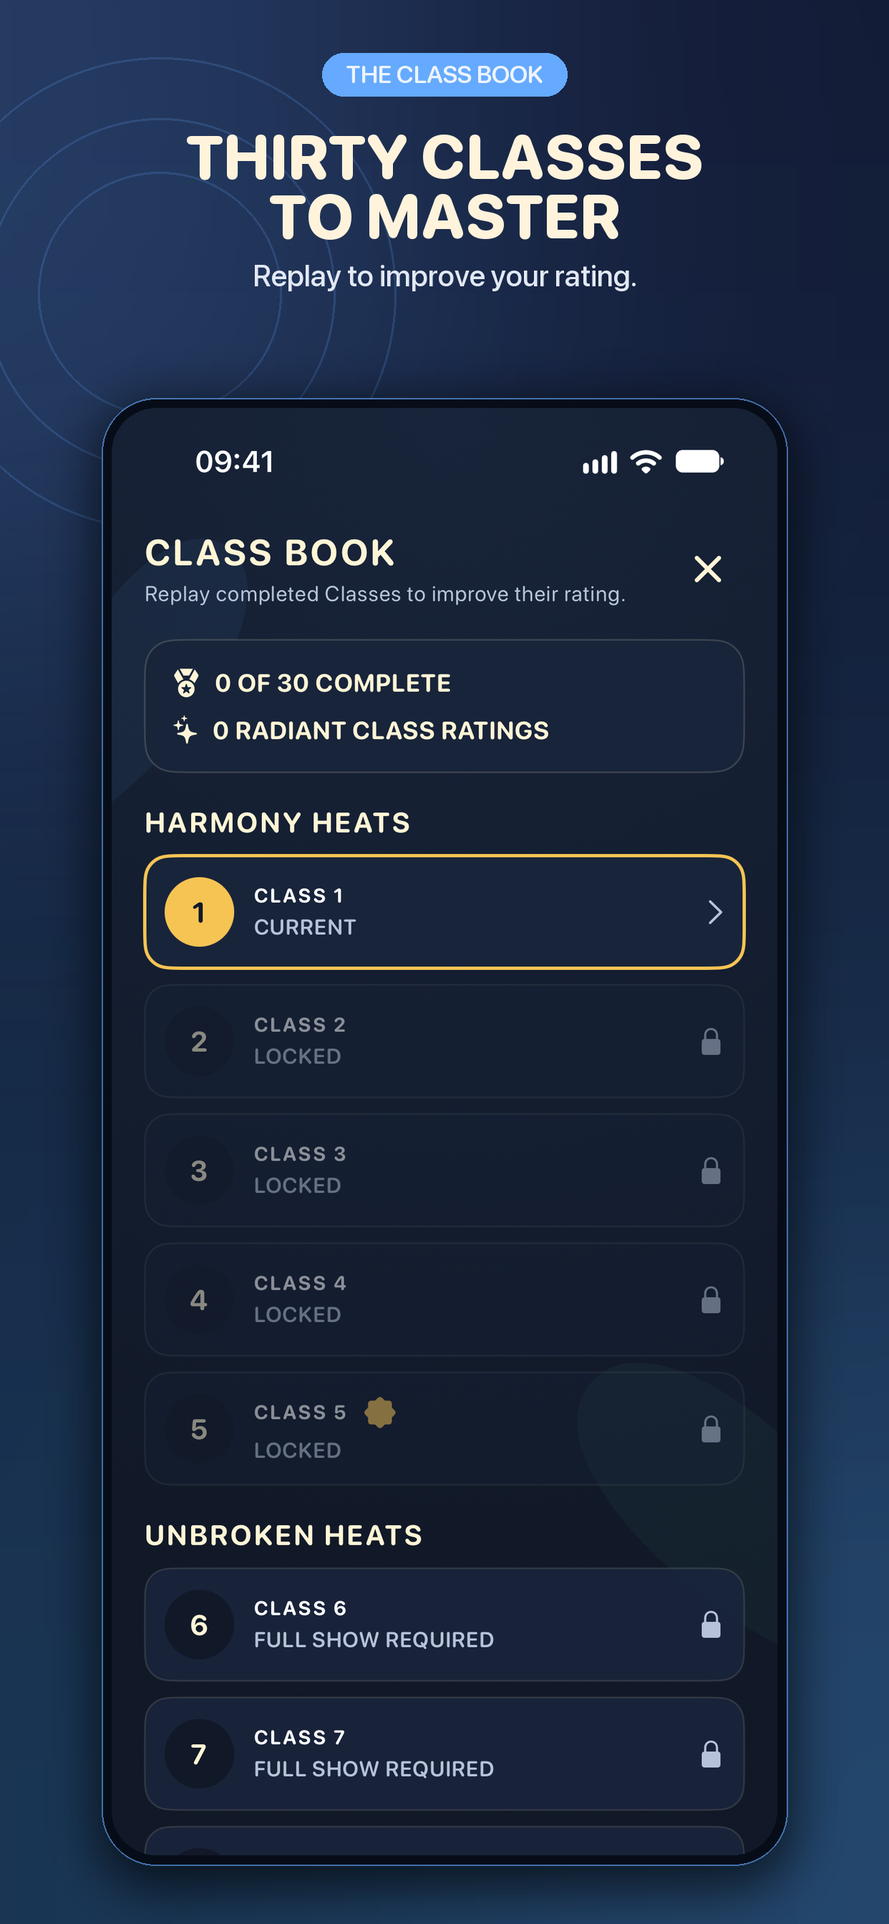
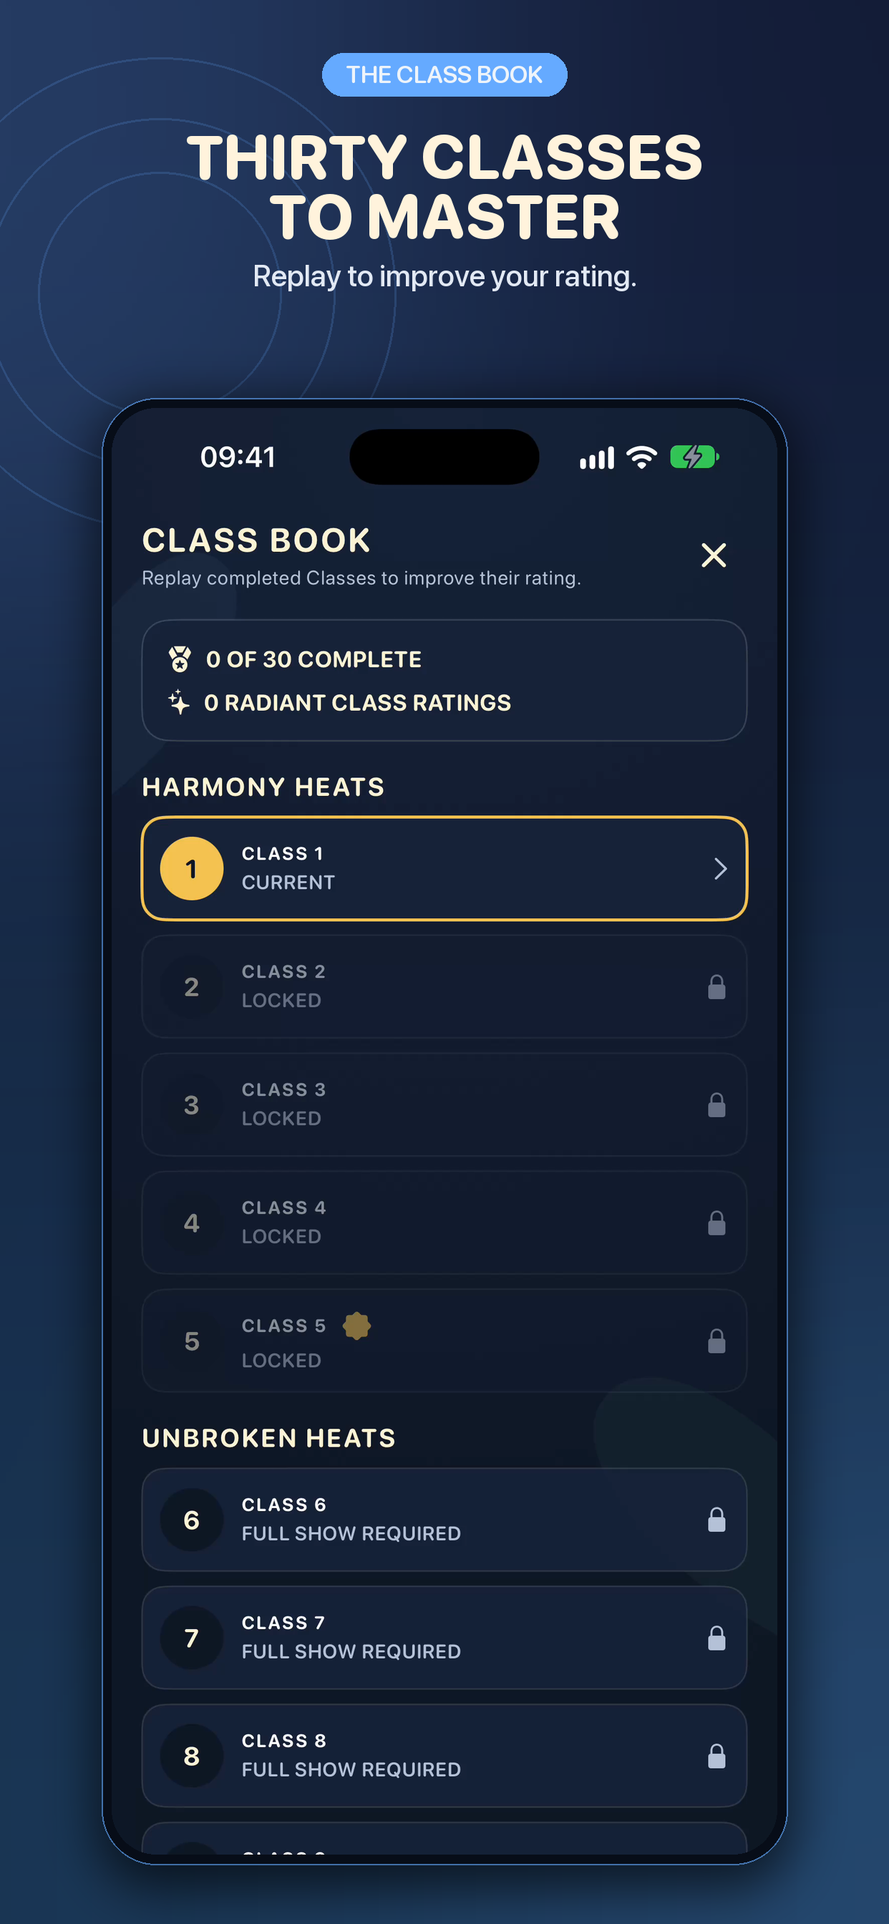
Recapture iOS 27 store assets at native size; add Champion Circuit slot 6
Native iPhone 17 Pro Max captures (09:41 override) for all Garden and Flower
Show screens, a new Champion Circuit screenshot (slot 6), rebuilt header and
search images, updated MANIFEST with the iPhone 17 Pro layout-bug evidence
(work/bug), and repo promotional text aligned with the live text.

diff --git a/Tools/compose-ios27-store-assets.py b/Tools/compose-ios27-store-assets.py
@@ -2,9 +2,10 @@
 
 """Build the October 2026 (iOS 27) App Store creative set for Ringbloom.
 
-Inputs are first-party simulator captures (iPhone 17 Pro, iOS 27, en_GB, 09:41) kept under
-store-assets/2026-10-ios27/source/. Nothing here fabricates UI: every screen is an untouched
-capture (or a still from an untouched recording) placed inside brand-coloured panels.
+Inputs are first-party simulator captures (iPhone 17 Pro Max, iOS 27, en_GB, 09:41, native
+1320x2868) kept under store-assets/2026-10-ios27/source/. Nothing here fabricates UI: every
+screen is an untouched capture (a frame of an untouched Simulator recording, which keeps the
+Dynamic Island that plain simctl screenshots often omit) placed inside brand-coloured panels.
 
 Outputs (all opaque RGB PNG):
   screenshots/APP_IPHONE_67-1320x2868/en-GB/NN-name.png
@@ -19,7 +20,6 @@ Run from anywhere:  python3 Tools/compose-ios27-store-assets.py
 from __future__ import annotations
 
 import math
-import subprocess
 from pathlib import Path
 
 from PIL import Image, ImageChops, ImageDraw, ImageFilter, ImageFont
@@ -27,8 +27,6 @@ from PIL import Image, ImageChops, ImageDraw, ImageFilter, ImageFont
 ROOT = Path(__file__).resolve().parent.parent
 OUT = ROOT / "store-assets" / "2026-10-ios27"
 SRC = OUT / "source"
-CAPTURES = Path("/Users/tommurton/GitHub/Marketing-tool/apps/ringbloom/inputs/captures-2026-10")
-GAMEPLAY = CAPTURES / "ringbloom-garden1-gameplay-19s.mp4"
 ICON = ROOT / "Art" / "ringbloom-icon-master.png"
 
 FONT_ROUNDED = "/System/Library/Fonts/SFNSRounded.ttf"
@@ -61,16 +59,21 @@ def regular_font(size: int, weight: str = "Medium") -> ImageFont.FreeTypeFont:
 # Sources
 # --------------------------------------------------------------------------------------
 
-STILLS = {
-    # name: (video time in seconds)
-    "garden1-combo-bloom": 15.5,   # two blooms from one turn, "A bloom combo is opening"
-    "garden1-single-bloom": 7.5,   # one bloom opening, chain 1
-    "garden1-hint": 4.9,           # hint highlights the Middle ring
-}
+SOURCE_NAMES = (
+    "garden1-combo-bloom",   # two blooms from one turn, "A bloom combo is opening"
+    "garden1-single-bloom",  # one bloom opening, chain 0
+    "garden1-hint",          # hint highlights the Inner ring, 2 hints left
+    "champion-circuit",      # Champion Circuit, Class 31, as a player who owns the full Show
+    "class1-card",           # Class 1 rules card (Ring Harmony)
+    "class-book",            # Class Book, fresh player
+)
+
+# The ring board inside a native 1320x2868 Garden capture (square), used for header/search.
+BOARD_BOX = (0, 636, 1320, 1974)   # board centre is y=1300; stops above the progress bar and status line
 
 
 def flatten(path: Path) -> Image.Image:
-    """Return the capture flattened onto opaque navy (captures carry an all-opaque alpha)."""
+    """Return the capture flattened onto opaque navy (some captures carry an all-opaque alpha)."""
     image = Image.open(path)
     if image.mode == "RGBA":
         base = Image.new("RGB", image.size, NAVY)
@@ -80,24 +83,9 @@ def flatten(path: Path) -> Image.Image:
 
 
 def prepare_sources() -> dict[str, Image.Image]:
-    SRC.mkdir(parents=True, exist_ok=True)
     sources: dict[str, Image.Image] = {}
-    for name, seconds in STILLS.items():
-        target = SRC / f"{name}.png"
-        if not target.exists():
-            subprocess.run(
-                ["ffmpeg", "-v", "error", "-y", "-ss", str(seconds), "-i", str(GAMEPLAY), "-frames:v", "1", str(target)],
-                check=True,
-            )
-        sources[name] = flatten(target)
-    for name, filename in (
-        ("class1-card", "ringbloom-flower-show-class1-card.png"),
-        ("class-book", "ringbloom-flower-show-class-book.png"),
-    ):
-        target = SRC / f"{name}.png"
-        if not target.exists():
-            flatten(CAPTURES / filename).save(target, "PNG", optimize=True)
-        sources[name] = flatten(target)
+    for name in SOURCE_NAMES:
+        sources[name] = flatten(SRC / f"{name}.png")
     return sources
 
 
@@ -267,6 +255,17 @@ SLIDES = (
         "bottom": (62, 52, 30),
         "accent": SAFFRON,
     },
+    {
+        "file": "06-the-champion-circuit",
+        "layout": "single",
+        "source": "champion-circuit",
+        "eyebrow": "FLOWER SHOW",
+        "title": "THE CHAMPION\nCIRCUIT",
+        "subtitle": "Keep going beyond Class 30.",
+        "top": (19, 26, 52),
+        "bottom": (46, 36, 78),
+        "accent": SKY,
+    },
 )
 
 
@@ -358,14 +357,14 @@ def compose_screenshots(sources: dict[str, Image.Image]) -> dict[str, list[Path]
 # Header (21:9) and search (3:2)
 # --------------------------------------------------------------------------------------
 
-def board_crop(source: Image.Image, scale: float, feather: float = 0.07) -> Image.Image:
+def board_crop(source: Image.Image, scale: float, feather: float = 0.035) -> Image.Image:
     """The ring board from a gameplay capture, edge-faded so it melts into the panel."""
-    crop = source.crop((0, 665, 1206, 1871))
+    crop = source.crop(BOARD_BOX)
     width, height = round(crop.width * scale), round(crop.height * scale)
     crop = crop.resize((width, height), Image.Resampling.LANCZOS).convert("RGBA")
     mask = Image.new("L", crop.size, 0)
     fade = int(min(width, height) * feather)
-    ImageDraw.Draw(mask).ellipse((fade, fade, width - fade, height - fade), fill=255)
+    ImageDraw.Draw(mask).ellipse((fade, fade // 4, width - fade, height - fade // 4), fill=255)
     mask = mask.filter(ImageFilter.GaussianBlur(fade * 0.55))
     crop.putalpha(mask)
     return crop
@@ -396,7 +395,7 @@ def compose_header(sources: dict[str, Image.Image]) -> Image.Image:
     focus = (2500.0, 823.0)
     canvas = creative_background(size, focus)
 
-    board = board_crop(sources["garden1-combo-bloom"], 1.0)
+    board = board_crop(sources["garden1-combo-bloom"], 1206 / 1320)
     canvas.alpha_composite(board, (int(focus[0] - board.width / 2), int(focus[1] - board.height / 2)))
 
     draw = ImageDraw.Draw(canvas)
@@ -448,7 +447,7 @@ def contact_sheet(shots: list[Path], header: Path, search: Path, poster: Path | 
     thumb_w = 330
     thumb_h = round(2868 * thumb_w / 1320)
     margin, gap = 36, 24
-    columns = max(len(shots), 6)
+    columns = len(shots) + 1
     row1_w = margin * 2 + columns * thumb_w + (columns - 1) * gap
     creative_w = (row1_w - margin * 2 - gap) // 2
     header_img = Image.open(header).convert("RGB")

diff --git a/store-assets/2026-10-ios27/MANIFEST.md b/store-assets/2026-10-ios27/MANIFEST.md
@@ -1,6 +1,6 @@
 # Ringbloom — iOS 27 App Store creative set (October 2026)
 
-Prepared on branch `claude/ios27-store-assets` from `origin/main` (`5c67543`). Nothing was uploaded and nothing in App Store Connect was changed. Regenerate with `python3 Tools/compose-ios27-store-assets.py` and `python3 Tools/build-ios27-app-preview.py`.
+Prepared on branch `claude/ios27-store-assets` from `origin/main` (`5c67543`), then recaptured on `claude/ios27-store-recapture` (7 Oct 2026, native iPhone 17 Pro Max captures, slot 6 added). Nothing was uploaded and nothing in App Store Connect was changed. Regenerate with `python3 Tools/compose-ios27-store-assets.py` and `python3 Tools/build-ios27-app-preview.py`.
 
 ASC app `6789952808`, live version 1.6 (build 12), `en-GB` only. No version after 1.6 exists yet, so the upload needs a new version (see "Next version").
 
@@ -15,17 +15,18 @@ ASC app `6789952808`, live version 1.6 (build 12), `en-GB` only. No version afte
 | Dimmed modal at position 7 | Show the real app in use | Dropped. |
 | Stale 1.3-era app preview | Use current UI | New preview cut from the 2 Oct 2026 iOS 27 recording (see Preview). |
 
-## Screenshots (upload-ready, 5 per set)
+## Screenshots (upload-ready, 6 per set)
 
-Source for every screen: first-party simulator captures in `captures-2026-10/` (iPhone 17 Pro, iOS 27.0, en_GB, 09:41, Ringbloom 1.6 build 12, fresh install). The captures have an alpha channel (fully opaque); they were flattened onto navy and the final PNGs are RGB. Provenance and licence: first-party app captures and the first-party app icon (`ASSET_LICENSES.md`); fonts are Apple's SF Rounded and SF, as in the V3 set, used for App Store promotion of an Apple-platform app. Copies of the five source stills are in `source/`.
+Source for every screen: first-party captures from one session on a dedicated iPhone 17 Pro Max simulator (iOS 27.0, en_GB, 09:41 override, full battery, Ringbloom 1.6 build 12 Debug build from `main`, native 1320x2868, no scaling). Garden screens are real Garden 1 play (`--ui-testing --seed=424242`, driven with the in-game hint and taps); the Class 1 card, Class Book and Champion Circuit screens use the app's own `--screenshot-*` launch states. Each still is a frame of an untouched Simulator recording (plain `simctl screenshot` frequently omits the Dynamic Island; recording frames always include it). The final PNGs are RGB. Provenance and licence: first-party app captures and the first-party app icon (`ASSET_LICENSES.md`); fonts are Apple's SF Rounded and SF, as in the V3 set, used for App Store promotion of an Apple-platform app. The six source stills are in `source/`.
 
 | # | File | Source | Caption | Purpose |
 |---|---|---|---|---|
-| 1 | `01-turn-a-ring-bloom-the-garden.png` | Garden 1 recording at 15.5 s (`ringbloom-garden1-gameplay-19s.mp4`) | TURN A RING. BLOOM THE GARDEN. / One thumb. Three rings. | The hook: two blooms from one turn, real HUD. Works alone in search. |
-| 2 | `02-two-ways-to-play.png` | Garden 1 at 7.5 s + `ringbloom-flower-show-class1-card.png` | TWO WAYS TO PLAY / Settle in, or take on a Class. Labels: GARDEN "Endless and calm", FLOWER SHOW "Judged Classes". | Garden vs Flower Show. Wording follows the in-app mode descriptions. |
-| 3 | `03-a-new-rule-to-master.png` | `ringbloom-flower-show-class1-card.png` | A NEW RULE TO MASTER / Special rules. Fresh objectives. | Special rules (Ring Harmony). |
-| 4 | `04-thirty-classes-to-master.png` | `ringbloom-flower-show-class-book.png` | THIRTY CLASSES TO MASTER / Replay to improve your rating. | Class Book. The "Full Show required" rows state no price. |
-| 5 | `05-stuck-take-a-hint.png` | Garden 1 at 4.9 s | STUCK? TAKE A HINT / Hints show which ring to turn. | Garden support feature, shown in the real hint state. |
+| 1 | `01-turn-a-ring-bloom-the-garden.png` | `source/garden1-combo-bloom.png`: Garden 1, third hinted move, double bloom mid-glow | TURN A RING. BLOOM THE GARDEN. / One thumb. Three rings. | The hook: two blooms from one turn, real HUD. Works alone in search. |
+| 2 | `02-two-ways-to-play.png` | `source/garden1-single-bloom.png` (first bloom opening) + `source/class1-card.png` | TWO WAYS TO PLAY / Settle in, or take on a Class. Labels: GARDEN "Endless and calm", FLOWER SHOW "Judged Classes". | Garden vs Flower Show. Wording follows the in-app mode descriptions. |
+| 3 | `03-a-new-rule-to-master.png` | `source/class1-card.png` | A NEW RULE TO MASTER / Special rules. Fresh objectives. | Special rules (Ring Harmony). |
+| 4 | `04-thirty-classes-to-master.png` | `source/class-book.png` | THIRTY CLASSES TO MASTER / Replay to improve your rating. | Class Book. The "Full Show required" rows state no price. |
+| 5 | `05-stuck-take-a-hint.png` | `source/garden1-hint.png`: fresh Garden 1, hint on the Inner ring | STUCK? TAKE A HINT / Hints show which ring to turn. | Garden support feature, shown in the real hint state. |
+| 6 | `06-the-champion-circuit.png` | `source/champion-circuit.png`: Circuit Class 31, fresh | THE CHAMPION CIRCUIT / Keep going beyond Class 30. | Champion Circuit, as a player who owns the full Show. |
 
 Upload targets (`en-GB`, ascending order = filename order):
 - `screenshots/APP_IPHONE_67-1320x2868/en-GB/` — 6.7" / 6.9" slot (1320x2868). ASC may label this set `APP_IPHONE_67` or 6.9" in the new UI; 1320x2868 is the accepted size.
@@ -34,8 +35,11 @@ Upload targets (`en-GB`, ascending order = filename order):
 
 Both sets replace the whole live set (7 each).
 
-### Slot 6: Champion Circuit — NOT included, needs a recapture
-No fresh iOS 27 capture of the Champion Circuit exists. The only ones are the live 1.1-era shots (home with "BEST 0 / GARDEN 11", and the dimmed modal), which are the problems above. I did not recycle them. See "Recaptures needed".
+
+### Slot 6: Champion Circuit, and how it stays honest about access
+The Circuit sits behind the permanent purchase, so the screen is captured as a player who has it: launch states `--screenshot-flower-show-game --flower-show-access=full-purchase --flower-show-class=31` (the app's own full-access test override; no StoreKit sandbox was needed and nothing was bought). The on-screen state is Circuit Class 31, a fresh attempt: "0/8 blooms · 10 moves left · Radiant possible", Ring Harmony, Twin Bloom, Prize Bouquet and the board. No price, "free" or "unlock" text appears on the screen or the caption, and the caption does not claim access is free. The caption states what the app does: the Circuit continues after Class 30.
+
+A home-screen shot was not made: the app's preview launch states always show "BEST 0" next to "GARDEN 11" (the same inconsistency this set was meant to remove), and a fresh install shows Flower Show as "LOCKED", so no honest and attractive home state was available without changing app code.
 
 ## Header and search (creative assets)
 
@@ -43,7 +47,7 @@ Both use the same single idea, **"Turn a ring. Bloom the garden."**, real board 
 
 | File | Size | Notes |
 |---|---|---|
-| `creative/header-21x9.png` | 3840x1646 | 21:9 header. Icon, headline and board all sit inside the central ~60% (x 768–3072). The real board is the focal point at the right of centre, edge-faded into a medallion; no phone chrome, so nothing else competes. |
+| `creative/header-21x9.png` | 3840x1646 | 21:9 header, rebuilt from the native Pro Max frame (early glow, so the bloom stays inside the medallion). Icon, headline and board all sit inside the central ~60% (x 768–3072). The real board is the focal point at the right of centre, edge-faded into a medallion; no phone chrome, so nothing else competes. |
 | `creative/search-3x2.png` | 3840x2560 | 3:2 search / Apple Games app. Real gameplay screen is large and prominent; text is the 6-word line "Turn a ring. Bloom the garden." plus the icon. |
 | universal 16:9 (5244x2950) | not made | The 21:9 and 3:2 compositions differ too much for one frame to serve both. |
 
@@ -66,16 +70,23 @@ Upload to the Asset Library (App Store Connect product-page creative assets) for
 - Looked at every output image (contact sheet and individual full-size views of the hero screenshot, two-ways screenshot, header, search, poster, and a 7-frame strip of the preview).
 - Text scan: no prices, "free", "unlock", "no subscription", URLs, © symbols, awards, or other-platform logos in any caption. The only in-capture words that could read as purchase wording are the Class Book's "Full Show required" row labels, which are real UI and state no price.
 - 4+ suitable: puzzle, no violence.
-- Status bar reads 09:41 on every capture. Battery glyph is not charging on class 1 and the Class Book captures but is charging in the Garden 1 recording (simulator artefact). If you want it uniform, recapture all in one session with the override (below).
+- Status bar reads 09:41 on every capture, with the same charging battery, 4 cellular bars and 3 Wi-Fi bars (one session, one simulator, override applied).
+- The last Garden stills (slides 1, 2, 5) and the header/search board are now native-size; no slide upscales a capture.
 
-## Recaptures needed (simulator, one session, one at a time)
+## Recapture notes (7 Oct 2026) and layout bug found
 
-Use iPhone 17 Pro Max (6.9", 1320x2868 native) rather than the 17 Pro so the screenshots are native-size, with `xcrun simctl status_bar booted override --time 09:41 --batteryState charged --batteryLevel 100 --cellularBars 4 --wifiBars 3`, en_GB, fresh install.
+Done: Champion Circuit slot 6; native Garden stills (double bloom, single bloom, hint); native Class 1 card and Class Book; header and search rebuilt. Not done: home screen (see slot 6 note).
 
-1. **Champion Circuit** (needed for slot 6): a Champion Circuit class in progress or the Circuit class card, with a believable state and no price or "free" text on screen.
-2. **Clean Garden 1 stills** at native size: a bloom mid-glow (ideally a double bloom) and a hint state, instead of video frames.
-3. **Home screen** with consistent state (for example Best 150, Garden 2, no stale values) if you want a home-screen shot.
-4. **Class 30 board at normal width**: in `class30-radiant-take3.mp4` the bottom row (Turn Left / Turn Right) is clipped by the screen edge on an iPhone 17 Pro. That looks like a real layout issue with three objective rows plus the board, not just a capture problem. I did not use it and did not touch app source. Worth checking on device.
+### Layout bug: Turn Left / Turn Right clipped on iPhone 17 Pro (app code not touched)
+Reproduced. Evidence in `work/bug/` (`class30-pro-vs-promax.png` is the side-by-side; raw captures alongside).
+
+- iPhone 17 Pro (402x874 pt), Class 30 (Ring Harmony row, Bindweed row, Prize Bouquet): the Turn Left / Turn Right buttons are laid out at y 855 to 904, below the 874 pt screen edge. Only their top 19 of 49 pt show. A tap in the visible strip still plays a move (verified: "10 moves left" became "9").
+- The gameplay view is a `ScrollView` (`ContentView.swift`, `gameplayContent`), so dragging on the header scrolls the buttons into view (verified; the hint and Pause then scroll off the top). Dragging on the board does not scroll. So the controls are reachable but the first view of the screen shows them cut off, and the primary controls are not visible without scrolling.
+- Cause, from code reading only: the board is sized `min(width - 32, height * 0.49)` (370 pt on the Pro), independent of how many objective rows sit above it, so Classes with three rows overflow the screen on a 874 pt tall device.
+- Pro Max (440x956 pt): Class 30 fits, but the buttons end at 942 pt, inside the 34 pt home-indicator zone, so it is tight rather than clean.
+- Classes sampled on the Pro (turn buttons' bottom edge in pt; screen is 874). Clipped: 20 (883), 25 (904), 27 (883), 28 (884), 29 (883), 30 (904), 31 (904), 32 (884), 35 (883), 40 (884). Fit: 1, 6, 11, 16, 24 (779 or less) and 26 (831). Other Classes were not sampled.
+- The existing UI test `testReducedMotionAndIncreasedContrastKeepLateClassControlsReachable` passes because it scrolls to the control (`reveal`), so it does not catch this.
+- Suggested follow-up: size the board from the remaining height after the objective rows, or pin the control row below the scroll content.
 
 ## Subtitle proposal (Tom decides; needs a new version)
 
@@ -86,17 +97,13 @@ Live subtitle is "Rotate Rings. Match 3 Petals", which contradicts BRAND.md (nev
 
 The subtitle can only change with a new version. Suggested description opening to match: "Turn a ring. Bloom the garden." (replace the first line only).
 
-## Promotional text (draft only; can be changed any time without a version)
+## Promotional text
 
-Live text: "Rotate. Match. Bloom. Play endless Garden and five Flower Show Classes free. No ads. Unlock 25 more Classes and the Champion Circuit with one permanent purchase."
-
-Issues: "Match" conflicts with BRAND.md; "free" and "Unlock" are fine in text but are the purchase wording the creative assets avoid.
-
-Draft (162/170): "Turn a ring. Bloom the garden. Endless Garden and five Flower Show Classes to start, no ads. One permanent purchase adds 25 more Classes and the Champion Circuit."
+Now live: "Turn a ring. Bloom the garden. Relax in the endless Garden or take on judged Flower Show Classes. No ads." (105/170). `metadata/version/1.6/en-GB.json` now matches it (it still held the old "Rotate. Match. Bloom." text).
 
 ## Repo metadata drift
 
-Compared the live 1.6 `en-GB` version and app-info localisations against `metadata/version/1.6/en-GB.json` and `metadata/app-info/en-GB.json`: identical, no drift. Fixed instead: `ASSET_LICENSES.md` did not record any of the current store artwork (it only listed 2026-07/08 screenshot paths that no longer exist in the repo); entries for this set are added.
+Compared the live 1.6 `en-GB` version and app-info localisations against `metadata/version/1.6/en-GB.json` and `metadata/app-info/en-GB.json`: identical at the time (before the promotional text was changed live; the repo copy is updated in the recapture PR). Fixed instead: `ASSET_LICENSES.md` did not record any of the current store artwork (it only listed 2026-07/08 screenshot paths that no longer exist in the repo); entries for this set are added.
 
 ## Optional ChatGPT image prompt (header background)
 

diff --git a/ASSET_LICENSES.md b/ASSET_LICENSES.md
@@ -21,8 +21,8 @@
 | `screenshots/store/en-GB-r2-65/03-chain-blooms.png` | App Store screenshot | First-party iPhone 14 Plus simulator capture from the final Round 2 source | Original project output | 1284×2778 chain-2 scoring state for the 6.5-inch slot. |
 | `screenshots/store/en-GB-r2-65/04-beat-budget.png` | App Store screenshot | First-party iPhone 14 Plus simulator capture from the final Round 2 source | Original project output | 1284×2778 Radiant result for the 6.5-inch slot. |
 | `screenshots/store/en-GB-r2-65/05-pay-once.png` | App Store screenshot | First-party iPhone 14 Plus simulator capture from the final Round 2 source | Original project output | 1284×2778 premium/offline home screen for the 6.5-inch slot. |
-| `store-assets/2026-10-ios27/source/*.png` | Source captures | First-party iPhone 17 Pro simulator captures, iOS 27.0, Ringbloom 1.6 (12), 2 Oct 2026 (stills from the Garden 1 recording and two Flower Show screens) | Original project output | Flattened to RGB. Originals live in Marketing-tool `apps/ringbloom/inputs/captures-2026-10/`. |
-| `store-assets/2026-10-ios27/screenshots/**` | App Store screenshots | Composed by `Tools/compose-ios27-store-assets.py` around the captures above | Original project output | 1320x2868 and 1242x2688, en-GB, five per set. Apple SF fonts used for App Store promotion. |
+| `store-assets/2026-10-ios27/source/*.png` | Source captures | First-party iPhone 17 Pro Max simulator captures, iOS 27.0, Ringbloom 1.6 (12) Debug build, 7 Oct 2026 (frames of Simulator recordings: Garden 1 play, Class 1 card, Class Book, Champion Circuit Class 31), native 1320x2868 | Original project output | RGB. Replaces the 2 Oct iPhone 17 Pro stills. |
+| `store-assets/2026-10-ios27/screenshots/**` | App Store screenshots | Composed by `Tools/compose-ios27-store-assets.py` around the captures above | Original project output | 1320x2868 and 1242x2688, en-GB, six per set. Apple SF fonts used for App Store promotion. |
 | `store-assets/2026-10-ios27/creative/*.png` | Header (21:9) and search (3:2) creative | Same script; real board capture plus `Art/ringbloom-icon-master.png` | Original project output | No generated imagery. |
 | `store-assets/2026-10-ios27/preview/*` | App preview and poster | `Tools/build-ios27-app-preview.py` from the Garden 1 recording | Original project output | 886x1920, silent AAC track. |
 
